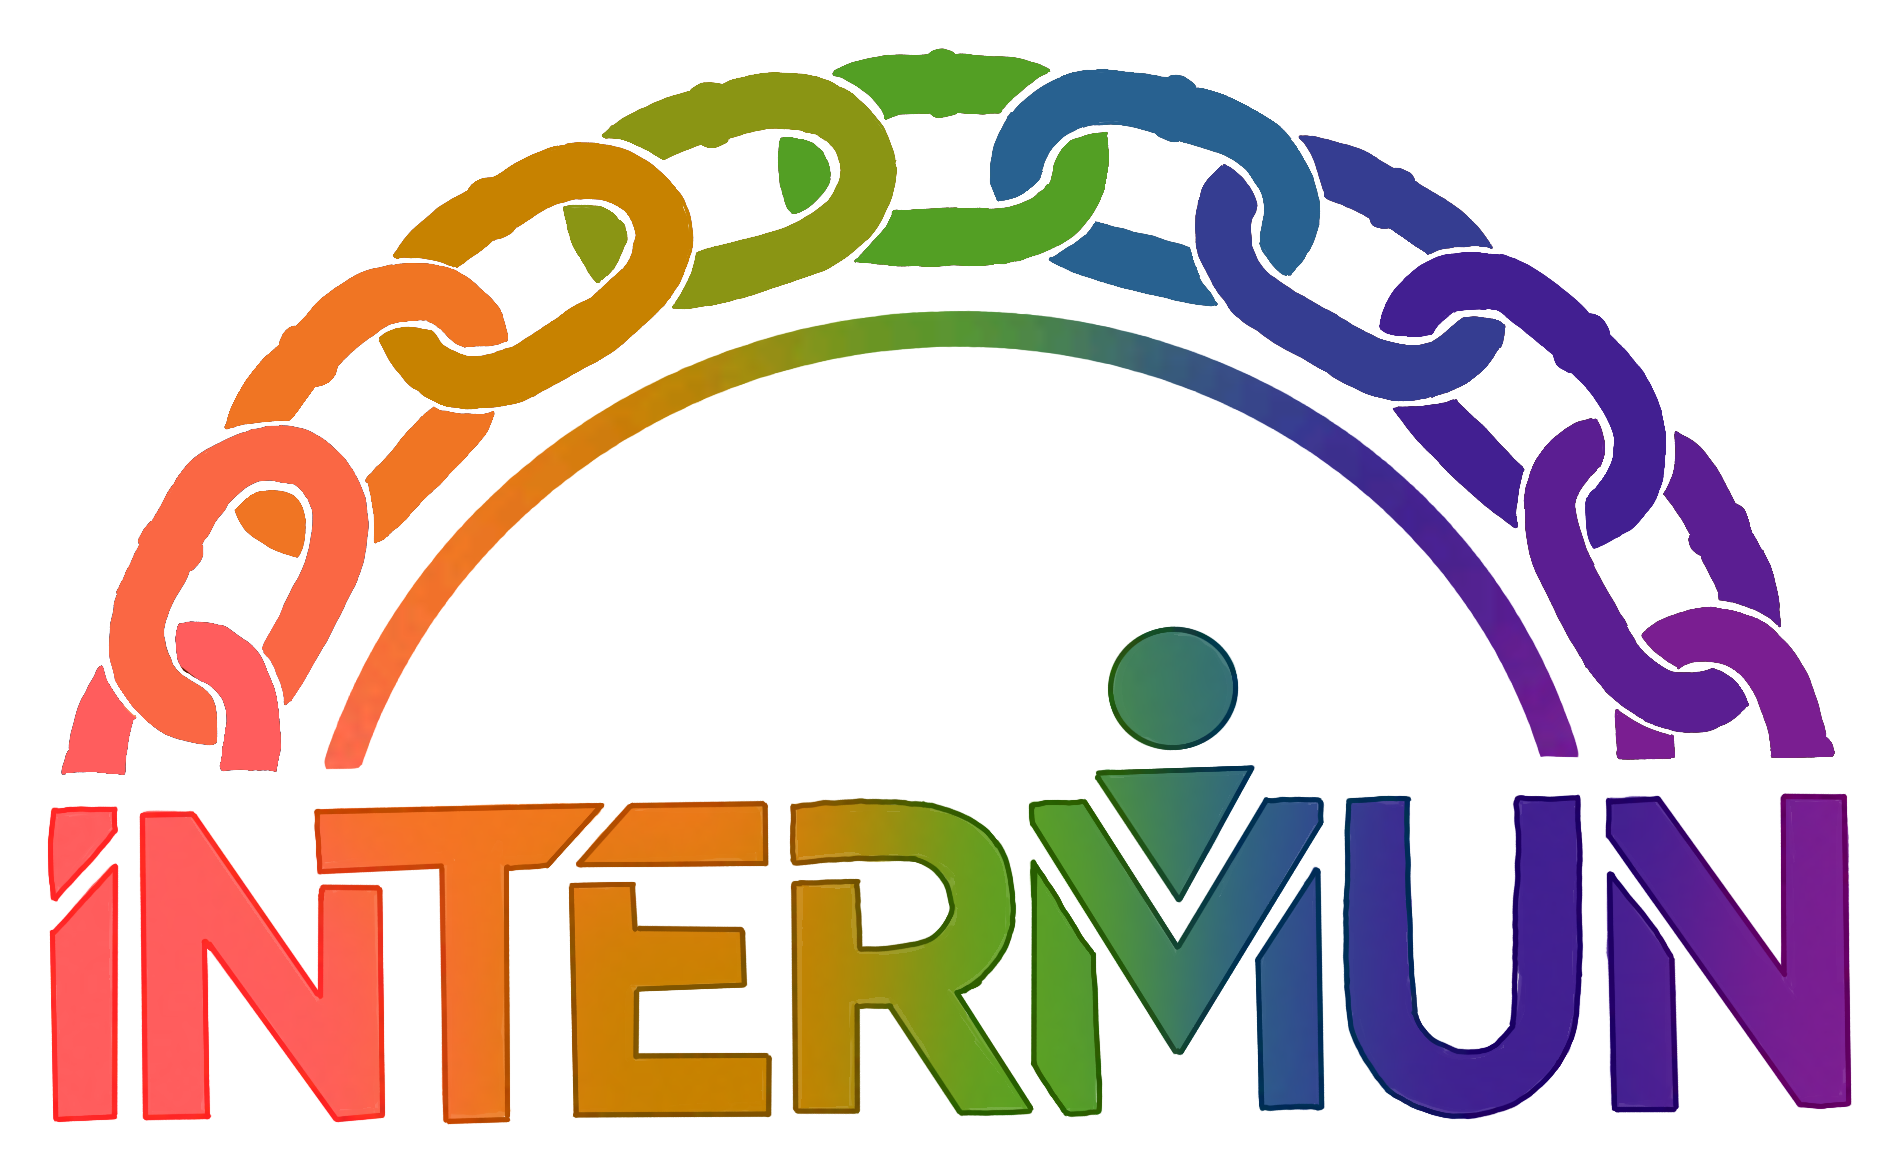
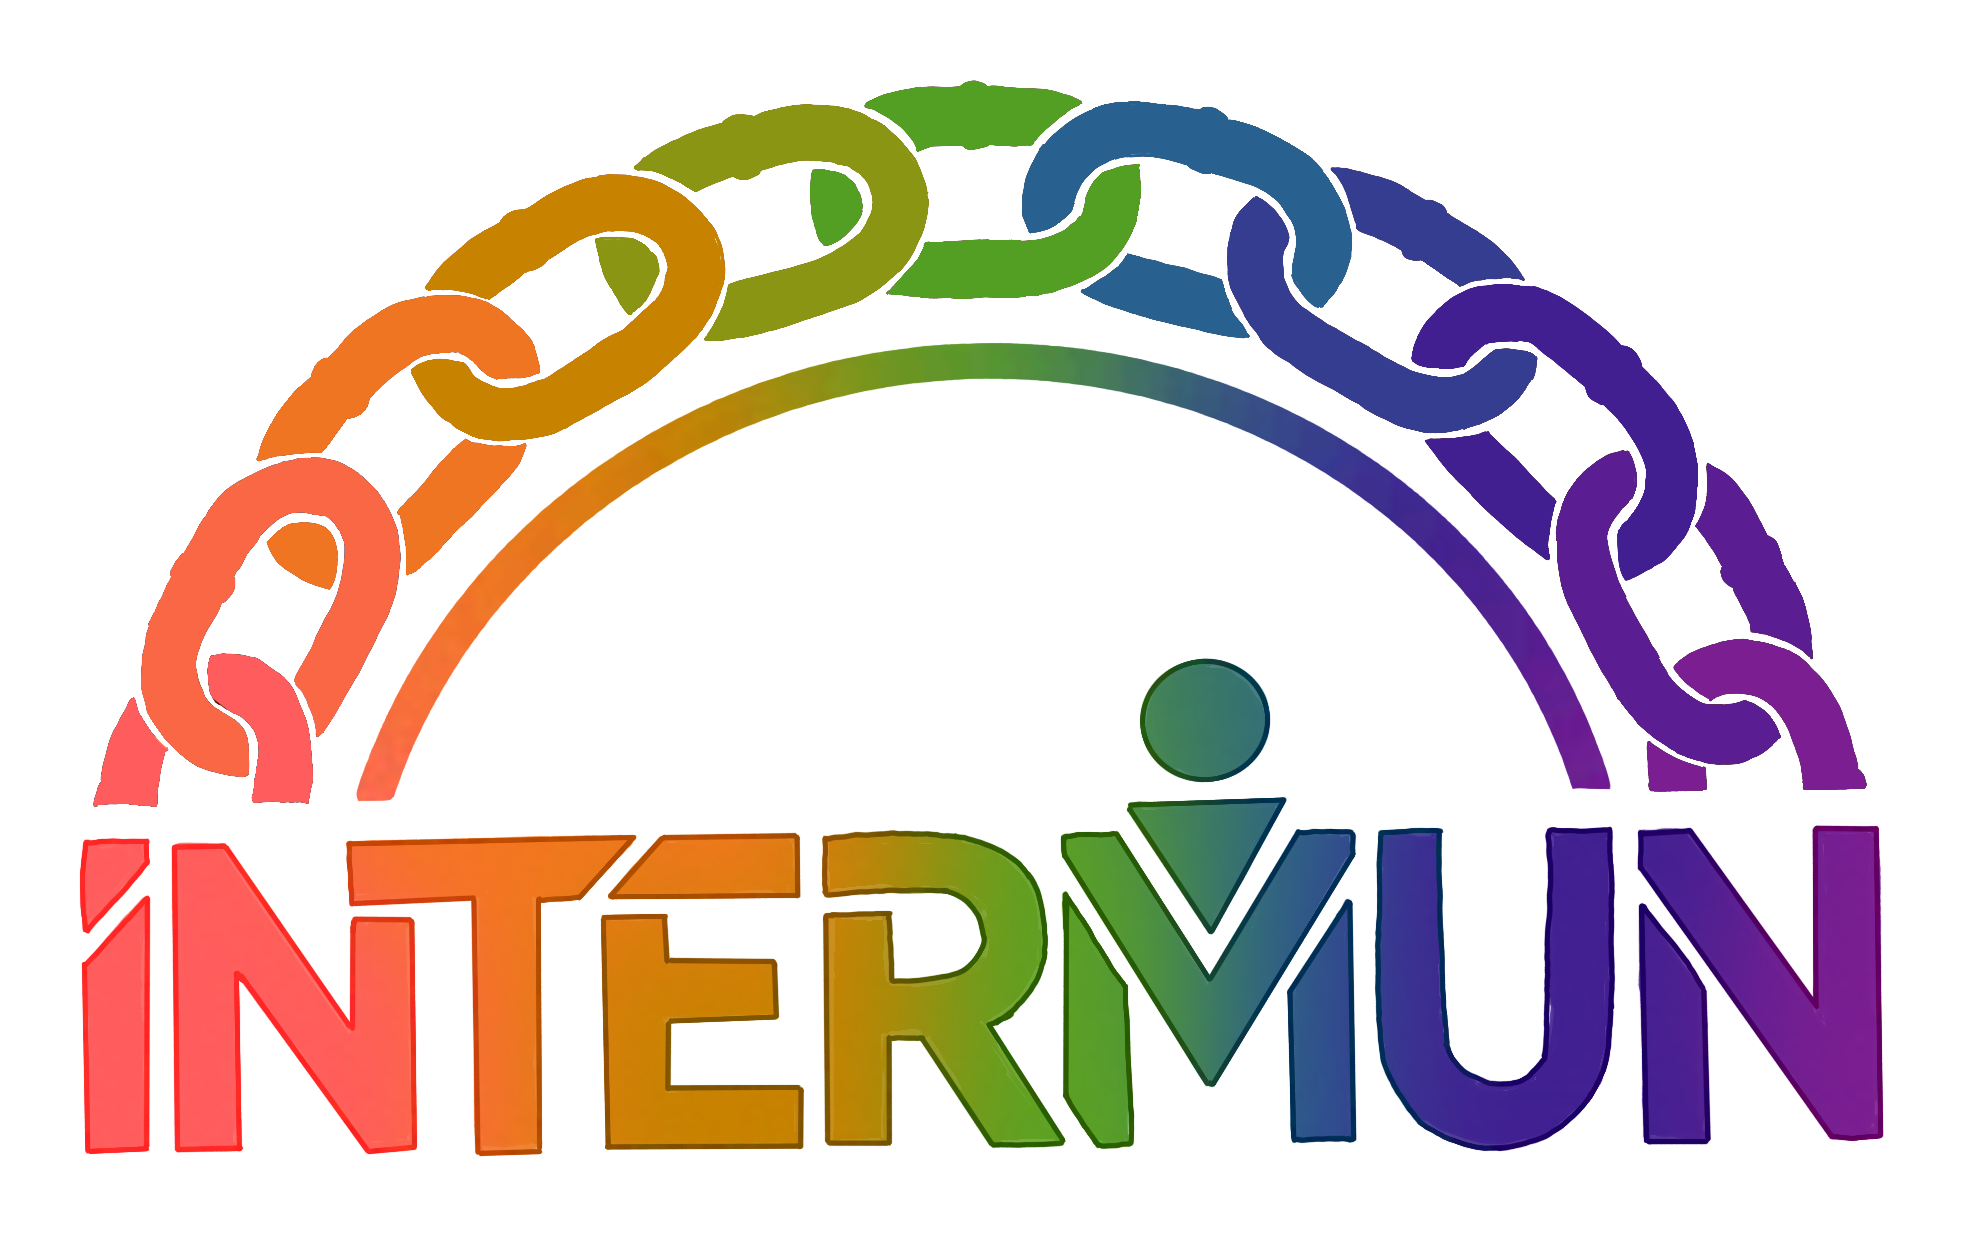
Fix light wordmark cropping and add home link on sign-in.
Scale the horizontal wordmark with max-height in headers and sidebars, stop logo-stack hover from clipping in the collapsed rail, re-export the light asset with padding, and add Back to home on login/signup.

Changed region(s): [[0.0, 0.0307, 0.9937, 0.9821], [0.5589, 0.5524, 0.59, 0.6138], [0.59, 0.5217, 0.6211, 0.5524]]

diff --git a/components/InterMunEmblem.tsx b/components/InterMunEmblem.tsx
@@ -1,19 +1,55 @@
 import { INTERMUN_EMBLEM_LIGHT_PATH, INTERMUN_EMBLEM_PATH } from "@/lib/branding";
 import { cn } from "@/lib/utils";
 
-/** Light wordmark is wide; drop square sizing and corner radius meant for the circular dark emblem. */
-function emblemClassForLightWordmark(className?: string) {
-  return className
-    ?.replace(/\bw-[\w\[\]./%-]+/g, "")
-    .replace(/\bh-[\w\[\]./%-]+/g, "")
-    .replace(/\brounded-[\w\[\]./%-]+/g, "")
-    .replace(/\s+/g, " ")
-    .trim();
+/** Map square icon heights to slightly taller max-heights so the wordmark text stays legible. */
+function lightWordmarkMaxHeight(className?: string): string {
+  const hClass = className?.match(/\bh-[\w\[\]./%-]+/)?.[0];
+  if (!hClass) return "max-h-10";
+  switch (hClass) {
+    case "h-8":
+      return "max-h-10";
+    case "h-9":
+      return "max-h-11";
+    case "h-10":
+      return "max-h-12";
+    case "h-20":
+      return "max-h-24";
+    case "h-24":
+      return "max-h-28";
+    case "h-28":
+      return "max-h-32";
+    case "h-36":
+      return "max-h-40";
+    case "h-40":
+      return "max-h-44";
+    default:
+      return hClass.replace(/^h-/, "max-h-");
+  }
 }
 
-function emblemHeightClass(className?: string) {
-  const match = className?.match(/\bh-[\w\[\]./%-]+/);
-  return match?.[0] ?? "h-10";
+function lightWordmarkMaxWidth(className?: string): string | undefined {
+  const wClass = className?.match(/\bw-[\w\[\]./%-]+/)?.[0];
+  if (!wClass) return undefined;
+  switch (wClass) {
+    case "w-8":
+      return "max-w-[4.75rem]";
+    case "w-9":
+      return "max-w-[5.25rem]";
+    case "w-10":
+      return "max-w-[5.75rem]";
+    case "w-20":
+      return "max-w-[14rem]";
+    case "w-24":
+      return "max-w-[16rem]";
+    case "w-28":
+      return "max-w-[18rem]";
+    case "w-36":
+      return "max-w-[22rem]";
+    case "w-40":
+      return "max-w-[24rem]";
+    default:
+      return wClass.replace(/^w-/, "max-w-");
+  }
 }
 
 /**
@@ -29,19 +65,24 @@ export function InterMunEmblem({
   /** Use `alt=""` when a visible “InterMUN” label sits next to the image. */
   alt?: string;
 }) {
-  const lightHeight = emblemHeightClass(className);
+  const lightMaxH = lightWordmarkMaxHeight(className);
+  const lightMaxW = lightWordmarkMaxWidth(className);
+
   return (
     <>
-      <img
-        src={INTERMUN_EMBLEM_LIGHT_PATH}
-        alt={alt}
-        className={cn(
-          "w-auto max-w-full shrink-0 object-contain object-left drop-shadow-[0_4px_18px_rgba(15,23,42,0.12)] dark:hidden",
-          lightHeight,
-          emblemClassForLightWordmark(className)
-        )}
-        decoding="async"
-      />
+      <span className="inline-flex shrink-0 items-center justify-center overflow-visible leading-none dark:hidden">
+        <img
+          src={INTERMUN_EMBLEM_LIGHT_PATH}
+          alt={alt}
+          className={cn(
+            "block h-auto w-auto shrink-0 object-contain object-center",
+            lightMaxH,
+            lightMaxW,
+            "drop-shadow-[0_4px_18px_rgba(15,23,42,0.12)]"
+          )}
+          decoding="async"
+        />
+      </span>
       <img
         src={INTERMUN_EMBLEM_PATH}
         alt={alt}

diff --git a/components/dashboard/DashboardBrandLogos.tsx b/components/dashboard/DashboardBrandLogos.tsx
@@ -14,24 +14,30 @@ export function DashboardBrandLogos({
   showConferenceLogo: boolean;
   variant: "sidebar" | "topbar";
 }) {
-  const singleClass =
-    variant === "sidebar" ? "h-10 w-10 rounded-2xl" : "h-9 w-9 rounded-xl";
-  const dualClass = "h-8 w-8 rounded-xl";
+  const eventIconClass = "h-8 w-8 shrink-0 object-contain";
+  const intermunClass =
+    variant === "sidebar"
+      ? showConferenceLogo
+        ? "h-8 w-8"
+        : "h-10 w-10"
+      : showConferenceLogo
+        ? "h-8 w-8"
+        : "h-9 w-9";
 
   if (!showConferenceLogo) {
-    return <InterMunEmblem alt="" className={singleClass} />;
+    return <InterMunEmblem alt="" className={intermunClass} />;
   }
 
   return (
     <span
       className={cn(
-        "group/logo-stack flex shrink-0 items-center justify-center transition-all duration-200",
+        "group/logo-stack flex shrink-0 items-center justify-center overflow-visible transition-all duration-200",
         variant === "sidebar"
-          ? "flex-col gap-1 group-hover:flex-row group-hover:gap-1.5 hover:flex-row hover:gap-1.5"
+          ? "flex-col gap-1 group-hover:flex-row group-hover:gap-1.5"
           : "flex-row gap-2"
       )}
     >
-      <img src={SEAMUN_LOGO_SRC} alt="" className={cn("object-contain", dualClass)} decoding="async" />
+      <img src={SEAMUN_LOGO_SRC} alt="" className={eventIconClass} decoding="async" />
       <span
         className={cn(
           "shrink-0 select-none font-semibold leading-none text-brand-muted dark:text-zinc-500",
@@ -41,7 +47,7 @@ export function DashboardBrandLogos({
       >
         ×
       </span>
-      <InterMunEmblem alt="" className={dualClass} />
+      <InterMunEmblem alt="" className={intermunClass} />
     </span>
   );
 }

diff --git a/app/(auth)/layout.tsx b/app/(auth)/layout.tsx
@@ -1,15 +1,29 @@
+import Link from "next/link";
+import { ChevronLeft } from "lucide-react";
+import { getTranslations } from "next-intl/server";
 import { PublicPageControls } from "@/components/PublicPageControls";
 
-export default function AuthLayout({
+export default async function AuthLayout({
   children,
 }: {
   children: React.ReactNode;
 }) {
+  const t = await getTranslations("authWizard");
+
   return (
     <div className="relative flex min-h-screen flex-col items-center justify-center bg-slate-50 px-4 py-10 dark:bg-transparent">
       <div className="theme-page-glow pointer-events-none absolute inset-0" aria-hidden />
       <div className="relative w-full max-w-5xl space-y-6">
-        <PublicPageControls />
+        <div className="flex items-center justify-between gap-3">
+          <Link
+            href="/"
+            className="inline-flex items-center gap-1 rounded-[var(--radius-md)] px-1 py-1 text-sm font-medium text-brand-muted transition-colors hover:text-brand-navy"
+          >
+            <ChevronLeft className="size-4 shrink-0" aria-hidden />
+            {t("backToHome")}
+          </Link>
+          <PublicPageControls />
+        </div>
         {children}
       </div>
     </div>

diff --git a/app/advisor/layout.tsx b/app/advisor/layout.tsx
@@ -53,7 +53,7 @@ export default async function AdvisorLayout({ children }: { children: React.Reac
           <Link
             href="/advisor"
             aria-label={`${appName} home`}
-            className="flex shrink-0 items-center justify-center gap-0 border-b border-[var(--hairline)] px-2 py-5 transition [transition-duration:var(--dur-base)] [transition-timing-function:var(--ease-apple)] group-hover:justify-start group-hover:gap-3 group-hover:px-5 hover:bg-[color:var(--discord-hover-bg)]"
+            className="flex shrink-0 items-center justify-center gap-0 overflow-visible border-b border-[var(--hairline)] px-2 py-5 transition [transition-duration:var(--dur-base)] [transition-timing-function:var(--ease-apple)] group-hover:justify-start group-hover:gap-3 group-hover:px-5 hover:bg-[color:var(--discord-hover-bg)]"
           >
             <DashboardBrandLogos showConferenceLogo={showSeamunLogo} variant="sidebar" />
             <span className="hidden truncate text-lg font-bold tracking-tight text-brand-accent group-hover:block dark:text-brand-accent-bright">

diff --git a/app/smt/layout.tsx b/app/smt/layout.tsx
@@ -58,7 +58,7 @@ export default async function SmtLayout({ children }: { children: React.ReactNod
         <Link
           href="/smt"
           aria-label={`${appName} home`}
-          className="flex shrink-0 items-center justify-center gap-0 border-b border-[var(--hairline)] px-2 py-5 transition [transition-duration:var(--dur-base)] [transition-timing-function:var(--ease-apple)] group-hover:justify-start group-hover:gap-3 group-hover:px-5 hover:bg-[color:var(--discord-hover-bg)]"
+          className="flex shrink-0 items-center justify-center gap-0 overflow-visible border-b border-[var(--hairline)] px-2 py-5 transition [transition-duration:var(--dur-base)] [transition-timing-function:var(--ease-apple)] group-hover:justify-start group-hover:gap-3 group-hover:px-5 hover:bg-[color:var(--discord-hover-bg)]"
         >
           <DashboardBrandLogos showConferenceLogo={showSeamunLogo} variant="sidebar" />
           <span className="hidden truncate text-lg font-bold tracking-tight text-brand-accent group-hover:block dark:text-brand-accent-bright">

diff --git a/app/(dashboard)/layout.tsx b/app/(dashboard)/layout.tsx
@@ -186,7 +186,7 @@ export default async function DashboardLayout({
             isChairRole(effectiveRole) ? "/chair" : isAdvisorRole(effectiveRole) ? "/advisor" : "/delegate"
           }
           aria-label={t("appHomeAria", { appName })}
-          className="flex shrink-0 items-center justify-center gap-0 border-b border-[var(--hairline)] px-2 py-5 transition [transition-duration:var(--dur-base)] [transition-timing-function:var(--ease-apple)] group-hover:justify-start group-hover:gap-3 group-hover:px-5 hover:bg-[color:var(--discord-hover-bg)]"
+          className="flex shrink-0 items-center justify-center gap-0 overflow-visible border-b border-[var(--hairline)] px-2 py-5 transition [transition-duration:var(--dur-base)] [transition-timing-function:var(--ease-apple)] group-hover:justify-start group-hover:gap-3 group-hover:px-5 hover:bg-[color:var(--discord-hover-bg)]"
         >
           <DashboardBrandLogos showConferenceLogo={showSeamunLogo} variant="sidebar" />
           <span

diff --git a/app/(marketing)/layout.tsx b/app/(marketing)/layout.tsx
@@ -18,7 +18,7 @@ export default async function MarketingLayout({
       <header className="relative z-10 border-b border-[var(--hairline)] bg-[var(--material-thin)]/80 backdrop-blur-md">
         <div className="mx-auto flex max-w-6xl items-center justify-between gap-4 px-4 py-3 md:px-6">
           <Link href="/" className="flex min-w-0 items-center gap-2.5">
-            <InterMunEmblem alt="" className="h-9 w-9 rounded-xl md:h-10 md:w-10" />
+            <InterMunEmblem alt="" className="max-h-10 w-auto md:max-h-11" />
             <span className="truncate font-display text-sm font-semibold tracking-tight md:text-base">
               {appName}
             </span>
